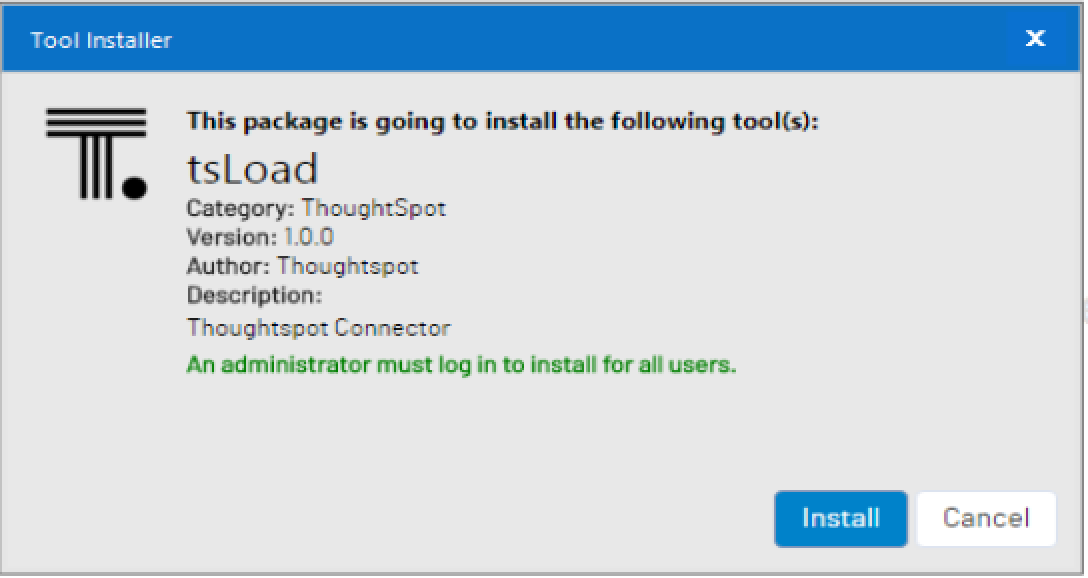
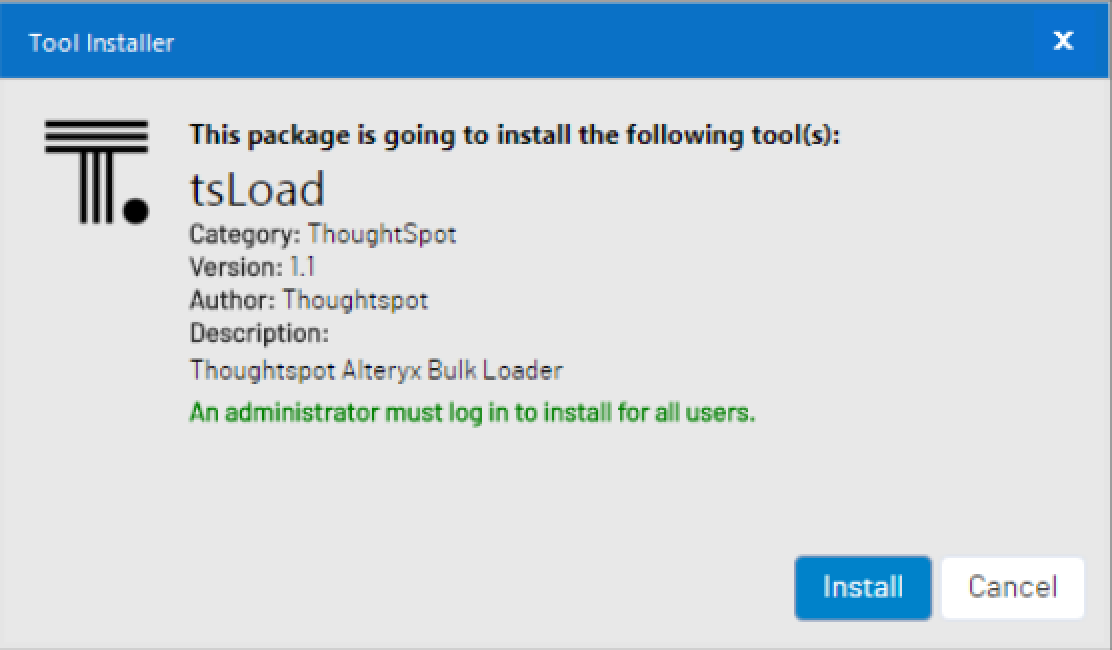
tsload release 1.1

Changed region(s): [[0.0, 0.0, 1.0, 1.0], [0.0312, 0.1557, 0.75, 0.5917], [0.1562, 0.5917, 0.6875, 0.654]]

diff --git a/Alteryx_Bulk_Loader/Code/tsLoad/tsLoad.py b/Alteryx_Bulk_Loader/Code/tsLoad/tsLoad.py
@@ -4,7 +4,7 @@ import csv
 import io
 import select
 import gzip
-import sys
+import socket
 from classes.Table import Table
 from classes.TQLFile import TQLFile
 from classes.sshClient import sshClient
@@ -181,16 +181,10 @@ class IncomingInterface:
             for sublist in self.field_lists:
                 del sublist[:]
             return True
-        except:
-            self.parent.xmsg("Error", "Error Writing Data")
-            self.stdin.close()
-            self.channel.shutdown_write()
-            self.writeChunks(600)
-            self.sshConnection.close()
-            self.parent.xmsg('Info', 'Connection with Destination Closed')
-            self.parent.output_anchor.close() # Close outgoing connections.elf.stdin.close()
-            self.channel.shutdown_write()
-            sys.exit()
+        except socket.error as e:
+            for sublist in self.field_lists:
+                del sublist[:]
+            self.parent.xmsg("Error", "Error Writing Data to ThoughtSpot.  Check Browse Tool for ThoughtSpot TSLoad Errors")
             return False
 
     def writeChunks(self,intimeout=30):
@@ -237,14 +231,19 @@ class IncomingInterface:
                           self.parent.alteryx_engine, self.parent.n_tool_id)
         tqlFile.add_table_def(self.table)
         cmd = "tql"
-        self.stdin, self.stdout, self.stderr = self.sshConnection.ssh.exec_command(cmd)
-        self.parent.xmsg('Info', 'Executing Create Table')
-        self.channel = self.stdout.channel
-        self.channel.send(str(tqlFile.outString))
-        self.stdin.close()
-        self.channel.shutdown_write()
-        self.writeChunks()
-        return True
+        try:
+            self.stdin, self.stdout, self.stderr = self.sshConnection.ssh.exec_command(cmd)
+            self.parent.xmsg('Info', 'Executing Create Table')
+            self.channel = self.stdout.channel
+            self.channel.send(str(tqlFile.outString))
+            self.stdin.close()
+            self.channel.shutdown_write()
+            self.writeChunks()
+            return True
+        except socket.error as e:
+            self.parent.xmsg('Error', 'An Error Occured during Table Creation')
+            self.parent.xmsg('Error', 'Error: %s' % str(e))
+            return False
 
     def createDatabase(self):
         """
@@ -252,14 +251,19 @@ class IncomingInterface:
         """
         tqlString = "create database " + self.parent.targetDatabase + ";"
         cmd = "tql"
-        self.stdin, self.stdout, self.stderr = self.sshConnection.ssh.exec_command(cmd)
-        self.parent.xmsg('Info', 'Executing Create Database')
-        self.channel = self.stdout.channel
-        self.channel.send(str(tqlString))
-        self.stdin.close()
-        self.channel.shutdown_write()
-        self.writeChunks()
-        return True
+        try:
+            self.stdin, self.stdout, self.stderr = self.sshConnection.ssh.exec_command(cmd)
+            self.parent.xmsg('Info', 'Executing Create Database')
+            self.channel = self.stdout.channel
+            self.channel.send(str(tqlString))
+            self.stdin.close()
+            self.channel.shutdown_write()
+            self.writeChunks()
+            return True
+        except socket.error as e:
+            self.parent.xmsg('Error', 'An Error Occured during Database Creation')
+            self.parent.xmsg('Error', 'Error: %s' % str(e))
+            return False
 
     def ii_init(self, record_info_in: object) -> bool:
         """
@@ -280,18 +284,20 @@ class IncomingInterface:
                 self.field_lists.append([record_info_in[field].name])
 
             self.sshConnection = sshClient(self.parent.destinationServer, self.parent.userName, self.parent.password, 22, True, True)
-
-            if self.sshConnection is None:
-                self.parent.xmsg('Info','Error with SSH Connection')
+            if self.sshConnection.status == 'Bad':
+                self.parent.xmsg('Error', 'A Connection could not be Established')
+                self.parent.xmsg('Error', self.sshConnection.response)
                 return False
             else:
-                self.parent.xmsg('Info','Connection with Destination Established')
+                self.parent.xmsg('Info', 'Connection Established with Server')
 
             if self.parent.createDatabase == 'True':
-                self.createDatabase()
+                if self.createDatabase() == 'False':
+                    return False
 
             if self.parent.createTable == 'True':
-                self.createTable()
+                if self.createTable() == 'False':
+                    return False
 
             if self.parent.truncate == 'True':
                 empty_target = '--empty_target'
@@ -301,10 +307,16 @@ class IncomingInterface:
             #cmd = 'tsload --target_database ' + self.parent.targetDatabase + ' --target_table ' + self.parent.tableName + ' --field_separator \',\' --has_header_row --date_format \'%Y-%m-%d\' --empty_target --max_ignored_rows 5'
             cmd = 'gzip -dc | tsload --target_database ' + self.parent.targetDatabase + ' --target_table ' + self.parent.tableName + ' --field_separator \',\' --null_value \'\' --date_time_format \'%Y-%m-%d %H:%M:%S\' --has_header_row --skip_second_fraction --date_format \'%Y-%m-%d\' ' + empty_target + ' --boolean_representation \'' + self.parent.booleanString + '\' --max_ignored_rows ' + self.parent.maxIgnoredRows + ' --v ' + str(self.parent.verbosity)
             self.parent.xmsg('Info', cmd)
-            self.stdin, self.stdout, self.stderr = self.sshConnection.ssh.exec_command(cmd)
-            self.parent.xmsg('Info', 'Executing Load Command')
-            self.channel = self.stdout.channel
-            self.channel.settimeout(None)
+            try:
+                self.stdin, self.stdout, self.stderr = self.sshConnection.ssh.exec_command(cmd)
+                self.parent.xmsg('Info', 'Executing Load Command')
+                self.channel = self.stdout.channel
+                self.channel.settimeout(None)
+                return True
+            except socket.error as e:
+                responsetxt = ('Could not Execute Load Command:  connection error %s' % str(e))
+                self.parent.xmsg('Error', responsetxt)
+                return False
         return True
 
     def ii_push_record(self, in_record: object) -> bool:
@@ -325,9 +337,10 @@ class IncomingInterface:
             #self.parent.xmsg('Info', str(self.field_lists))
 
         if self.counter == self.parent.batchSize:
-            self.write_lists_to_TS()
-            self.counter = 0
-
+            if self.write_lists_to_TS():
+                    self.counter = 0
+            else:
+                return False
         return True
 
     def ii_update_progress(self, d_percent: float):
@@ -349,7 +362,6 @@ class IncomingInterface:
                 # First element for each list will always be the field names.
                 if len(self.field_lists[0]) > 1:
                     self.write_lists_to_TS()
-        
             self.stdin.close()
             self.channel.shutdown_write()
             self.parent.xmsg('Info', 'Completed Streaming Rows')

diff --git a/Alteryx_Bulk_Loader/Code/tsLoad/classes/sshClient.py b/Alteryx_Bulk_Loader/Code/tsLoad/classes/sshClient.py
@@ -15,7 +15,8 @@ class sshClient(object):
         self.compress = compress
         self.bufsize = 655360
         self.verbose = verbose
-        self.logger = None
+        self.status = None
+        self.response = None
         self.__fetch__sshClient()
 
     def __repr__(self):
@@ -43,21 +44,30 @@ class sshClient(object):
             self.transport.window_size = 4294967294
             self.transport.use_compression(self.compress)
             self.transport.set_keepalive(60)
-            self.info('succeeded: %s@%s:%d' % (self.username,
+            responsetxt = ('succeeded: %s@%s:%d' % (self.username,
                                                self.hostname,
                                                self.port))
+            self.info(responsetxt)
+            self.response = responsetxt
+            self.status = "Good"
         except socket.error as e:
             self.transport = None
-            self.info('failed: %s@%s:%d: %s' % (self.username,
+            responsetxt = ('Failed to Connect: %s@%s:%d: %s' % (self.username,
                                                 self.hostname,
                                                 self.port,
                                                 str(e)))
-        except paramiko.BadAuthenticationType as e:
+            self.info(responsetxt)
+            self.response = responsetxt
+            self.status = "Bad"
+        except paramiko.AuthenticationException as e:
             self.transport = None
-            self.info('failed: %s@%s:%d: %s' % (self.username,
+            responsetxt = ('Failed to Authenticate: %s@%s:%d: %s' % (self.username,
                                                 self.hostname,
                                                 self.port,
                                                 str(e)))
+            self.info(responsetxt)
+            self.response = responsetxt
+            self.status = "Bad"
         return self.transport is not None
 
     def close(self):
@@ -65,50 +75,6 @@ class sshClient(object):
         if self.ssh is not None:
             self.ssh.close()
             self.transport = None
-
-    def run(self, cmd, input_data=None, want_exitcode=False, timeout=60000):
-        self.info('running command: %s' % (cmd))
-        if self.transport is None:
-            self.info('no connection to %s@%s:%s' % (str(self.username),
-                                                     str(self.hostname),
-                                                     str(self.port)))
-            return -1, 'ERROR: connection not established\n'
-
-        stdin, stdout, stderr = self.ssh.exec_command(cmd)
-        self.info('executed command')
-        channel = stdout.channel
-        channel.settimeout(None)
-        self._run_send_input(channel,input_data)
-        stdin.close()
-        channel.shutdown_write()
-        self.info('shutdown write channel')
-        stdout_chunks = []
-        stdout_chunks.append(stdout.channel.recv(len(stdout.channel.in_buffer)).decode('utf-8'))
-        self.info('recieving output from command')
-        while not channel.closed or channel.recv_ready() or channel.recv_stderr_ready():
-            got_chunk = False
-            readq, _, _ = select.select([stdout.channel], [], [], timeout)
-            for c in readq:
-                if c.recv_ready():
-                    stdout_chunks.append(stdout.channel.recv(len(c.in_buffer)).decode('utf-8'))
-                    got_chunk = True
-                if c.recv_stderr_ready():
-                    stdout_chunks.append(stderr.channel.recv_stderr(len(c.in_stderr_buffer)))
-                    got_chunk = True
-            if not got_chunk \
-                    and stdout.channel.exit_status_ready() \
-                    and not stderr.channel.recv_stderr_ready() \
-                    and not stdout.channel.recv_ready():
-                stdout.channel.shutdown_read()
-                stdout.channel.close()
-                break
-        stdout.close()
-        stderr.close()
-        self.info('done recieving output')
-        if want_exitcode:
-            return (''.join(str(stdout_chunks)), stdout.channel.recv_exit_status())
-        return ''.join(stdout_chunks)
-        return status, output
 
     def set_verbosity(self):
         if self.verbose > 0:

diff --git a/Alteryx_Bulk_Loader/readme.md b/Alteryx_Bulk_Loader/readme.md
@@ -98,7 +98,7 @@ Please read [Contributing.md](Contributing.md) for details on our code of conduc
 
 Version 1.0.0 - Initial Public Version
 
-Version 1.0.1 - 
+Version 1.0.1 -
 
 - Encapsulated column names in quotes
 
@@ -106,9 +106,16 @@ Version 1.0.1 -
 
 - Added link to Alteryx Public Gallary
 
+Version 1.1 -
+
+- Enhanced error handling specifically around connection, login and tsload errors  
+
+- Errors retrieved from Thoughtspot (i.e. tsload errors like table not defined, etc.) can be reviewed in a browser tool connected to the output of the tool if an error occurs during the flow
+
+- The tool removes all spaces from column names.  This may cause an issue if you have a column name with a leading space in the input file.   
+
 # Future Versions
 
-- Error Handling
 - Leverage ThoughtSpot Security model to login to the bulk loader
 - Assign edit priviliges to creator and not super admin user
 
